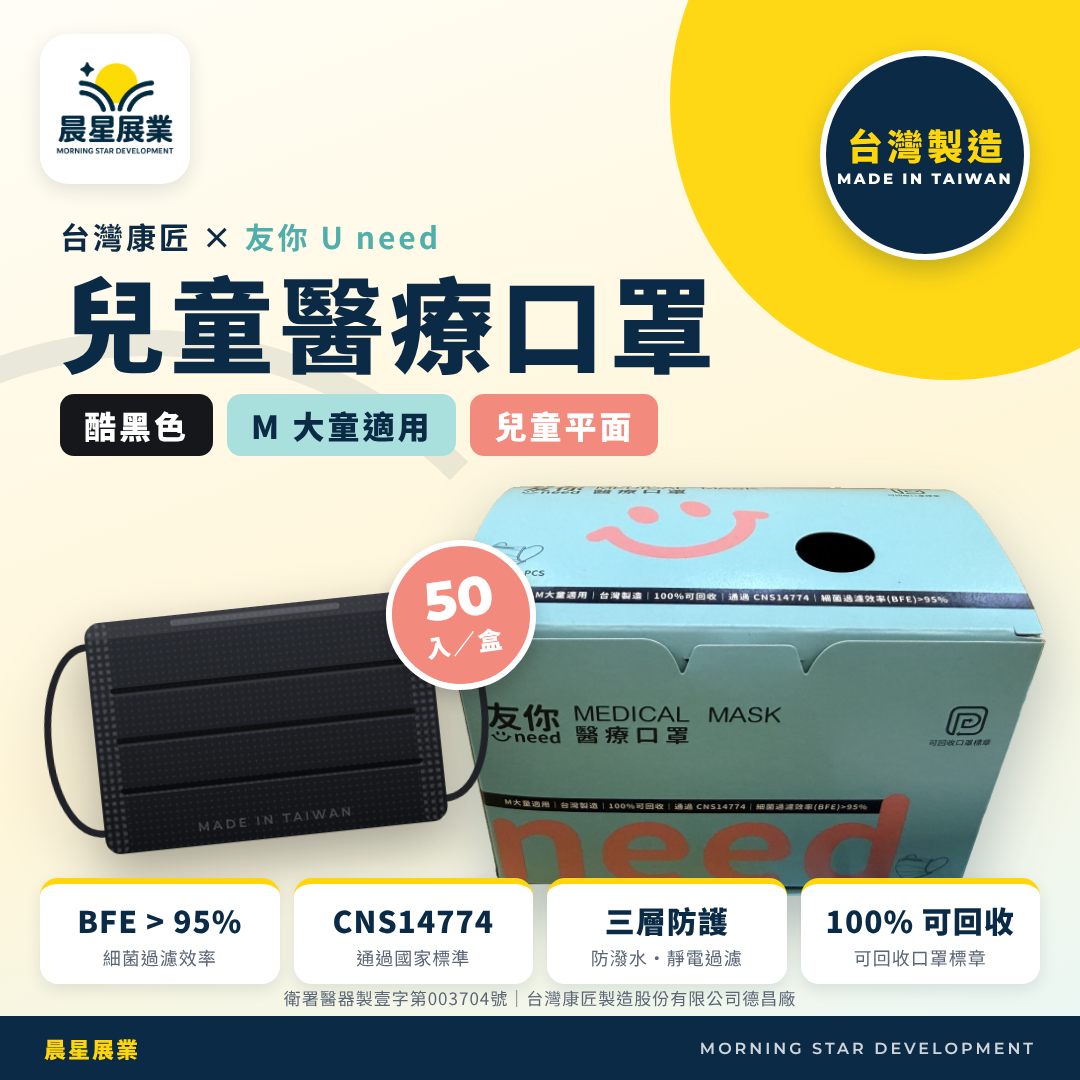
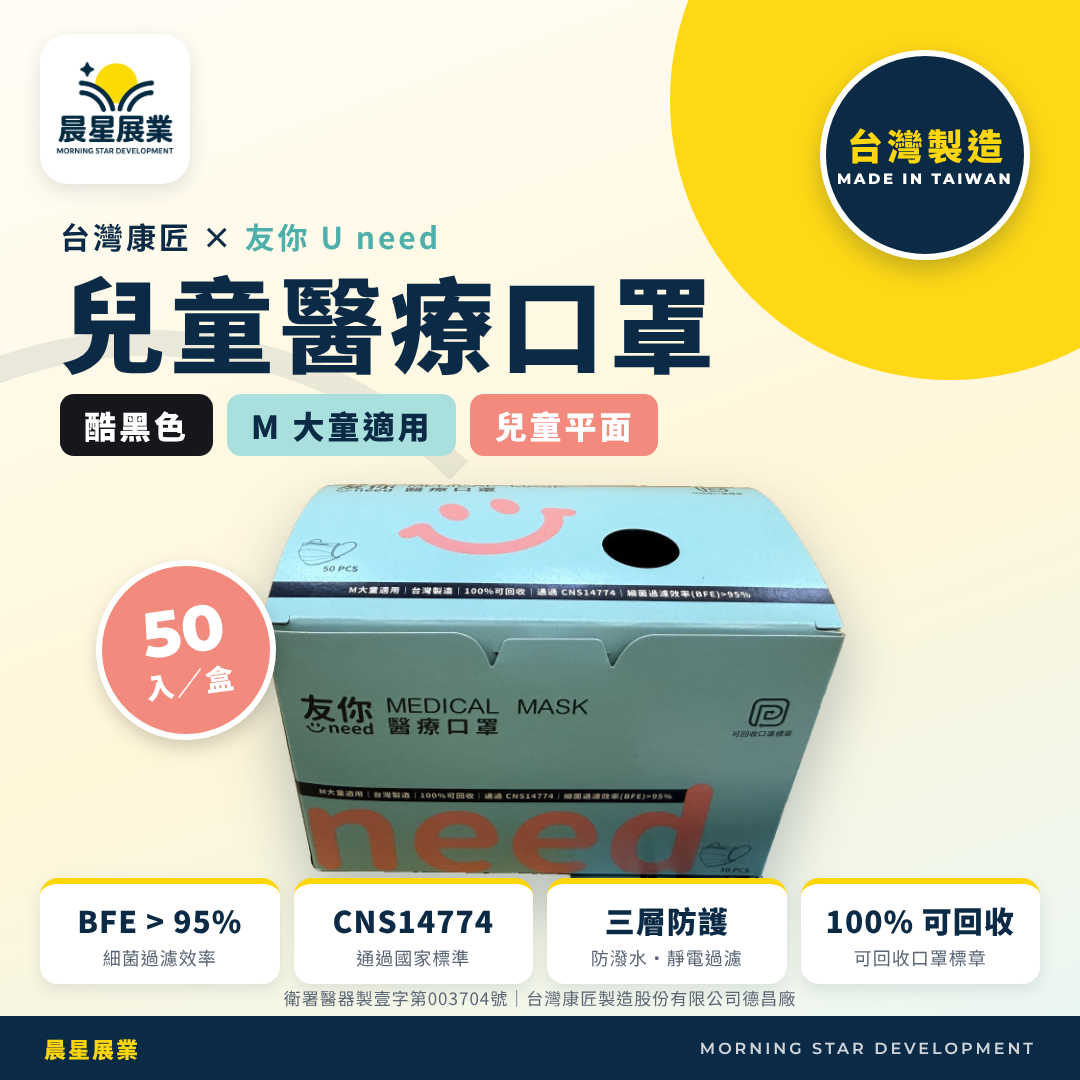
主圖移除口罩示意圖，只保留外盒
Claude-Session: https://claude.ai/code/session_01CwPqKSqJbuV3fbKvyRq3BZ

Changed region(s): [[0.0306, 0.4278, 0.9778, 0.8556]]

diff --git a/shopee/康匠友你兒童口罩-黑色/source/shopee.html b/shopee/康匠友你兒童口罩-黑色/source/shopee.html
@@ -39,11 +39,11 @@ body{background:#ddd;font-family:'Noto Sans TC',sans-serif;color:var(--ink)}
 #p1 .chip.k{background:#15171b;color:#fff}
 #p1 .chip.m{background:var(--mint);color:var(--navy)}
 #p1 .chip.c{background:var(--coral);color:#fff}
-#p1 .box{position:absolute;right:34px;top:486px;width:600px;filter:drop-shadow(0 26px 30px rgba(11,42,69,.28));z-index:2}
+#p1 .box{position:absolute;left:262px;top:484px;width:584px;filter:drop-shadow(0 26px 30px rgba(11,42,69,.28));z-index:2}
 #p1 .mask{position:absolute;left:26px;top:575px;width:480px;z-index:3;filter:drop-shadow(0 22px 26px rgba(0,0,0,.35));transform:rotate(-6deg)}
-#p1 .pcs{position:absolute;left:386px;top:540px;width:150px;height:150px;border-radius:50%;background:var(--coral);color:#fff;display:flex;flex-direction:column;align-items:center;justify-content:center;z-index:4;border:6px solid #fff;box-shadow:0 8px 18px rgba(0,0,0,.18);transform:rotate(-8deg)}
-#p1 .pcs .n{font-family:Montserrat;font-weight:800;font-size:54px;line-height:1}
-#p1 .pcs .u{font-size:24px;font-weight:900;letter-spacing:2px}
+#p1 .pcs{position:absolute;left:96px;top:560px;width:180px;height:180px;border-radius:50%;background:var(--coral);color:#fff;display:flex;flex-direction:column;align-items:center;justify-content:center;z-index:4;border:6px solid #fff;box-shadow:0 8px 18px rgba(0,0,0,.18);transform:rotate(-8deg)}
+#p1 .pcs .n{font-family:Montserrat;font-weight:800;font-size:64px;line-height:1}
+#p1 .pcs .u{font-size:28px;font-weight:900;letter-spacing:2px}
 #p1 .badges{position:absolute;left:40px;right:40px;bottom:96px;display:grid;grid-template-columns:repeat(4,1fr);gap:14px;z-index:4}
 #p1 .bd{background:#fff;border-radius:18px;padding:14px 8px;text-align:center;box-shadow:0 6px 16px rgba(11,42,69,.10);border-top:6px solid var(--sun)}
 #p1 .bd .t{font-size:30px;font-weight:900;color:var(--navy);letter-spacing:1px}
@@ -158,7 +158,6 @@ body{background:#ddd;font-family:'Noto Sans TC',sans-serif;color:var(--ink)}
     <div class="chips"><span class="chip k">酷黑色</span><span class="chip m">M 大童適用</span><span class="chip c">兒童平面</span></div>
   </div>
   <img class="box" src="work/front_cut_clean.png" alt="">
-  <svg class="mask" viewBox="0 0 620 380"><use href="#mask"/></svg>
   <div class="pcs"><div class="n">50</div><div class="u">入／盒</div></div>
   <div class="badges">
     <div class="bd"><div class="t">BFE &gt; 95%</div><div class="s">細菌過濾效率</div></div>
